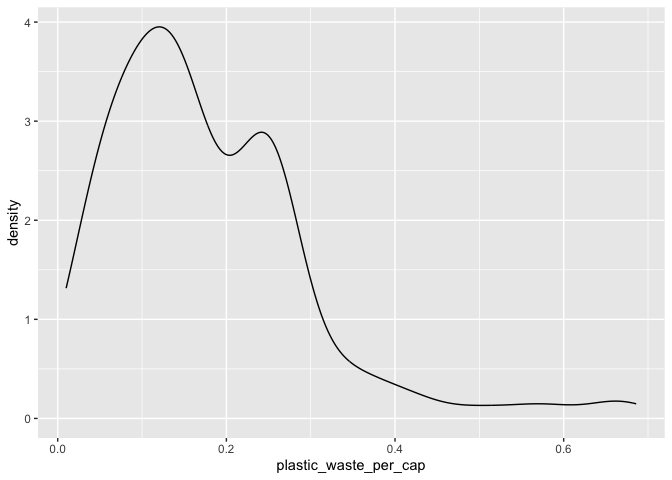
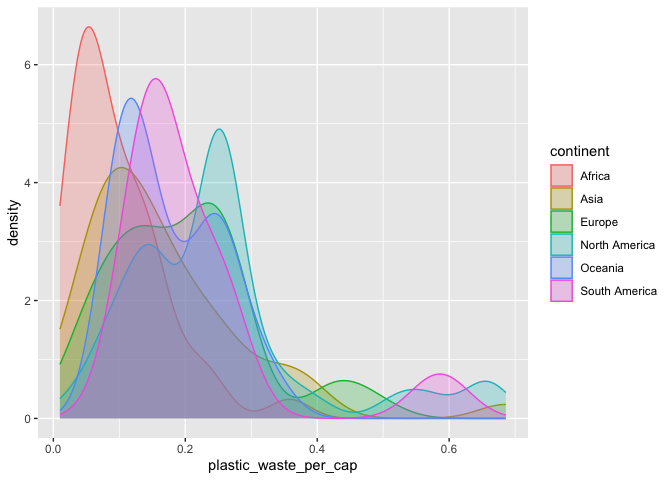
Question 3, 4 et 5

diff --git a/lab-02.md b/lab-02.md
@@ -36,49 +36,85 @@ facet_wrap(~continent)
 ### Exercise 2
 
 ``` r
-ggplot(data=plastic_waste %>% filter(plastic_waste_per_cap < 3.5), aes(x=plastic_waste_per_cap)) +
-  geom_density() 
+ggplot(data=plastic_waste %>% filter(plastic_waste_per_cap < 3.5), aes(x=plastic_waste_per_cap, color=continent,fill=continent)) +
+  geom_density(alpha=0.25)
 ```
 
 ![](lab-02_files/figure-gfm/plastic-waste-density-1.png)<!-- -->
+Décrivez pourquoi le reglage de la couleur (color et fill) et le réglage
+de la transparence (alpha) ne se trouvent pas au même endroit ? L’un
+étant réglé dans aes et l’autre dans geom_density()
 
-Réponse à la question…
+Les réglages color et fill sont dans aes, car ils dépendent des
+variables et modifient leur présentation visuelle. Pour le paramètre
+alpha, ce dernier est placé dans geom_density, puisqu’il agit sur la
+transparence de la couleur sur graphique directement et non sur la
+variable choisie.
 
 ### Exercise 3
 
 Boxplot:
 
 ``` r
-# insert code here
+ggplot(data=plastic_waste %>% filter(plastic_waste_per_cap < 3.5), aes(x=continent, y=plastic_waste_per_cap)) + geom_boxplot()
 ```
+
+![](lab-02_files/figure-gfm/plastic-waste-boxplot-1.png)<!-- -->
 
 Violin plot:
 
 ``` r
-# insert code here
+ggplot(data=plastic_waste %>% filter(plastic_waste_per_cap < 3.5), aes(x=continent, y=plastic_waste_per_cap)) + geom_violin()
 ```
 
-Réponse à la question…
+![](lab-02_files/figure-gfm/plastic-waste-violin-1.png)<!-- -->
+
+Qu’est ce que les violin plots permettent de voir sur les données que
+les boxplot ne permettent pas ?
+
+Les violoins plots permettent de voir une meilleure répartition des
+données tandis que les boxplots permettent seulement de voir des
+résultats comme la médiane, les quartiles et les données extrêmes qui ne
+sortent de la boîte.
 
 ### Exercise 4
 
 ``` r
-# insert code here
+ggplot(data=plastic_waste %>% filter(plastic_waste_per_cap < 3.5), aes(x=mismanaged_plastic_waste_per_cap, y=plastic_waste_per_cap, color=continent)) + geom_point()
 ```
 
-Réponse à la question…
+![](lab-02_files/figure-gfm/plastic-waste-mismanaged-1.png)<!-- -->
+
+On voit la relation entre les déchets qui sont produit et comment ils
+sont gérés. On voit bien que pour ce qui est de l’Afrique, la majorité
+des déchets qui sont produits sont mal gérés, mais qu’à l’inverse, la
+majorité des déchets produits par l’Europe sont bien gérés. On voit
+qu’entre les deux de ces extrémités, l’Amérique du nord a environ la
+moitié de ses déchets produits qui sont mal gérés et que l’autre moitié
+produites est bien gérées. Le graphique montre bien la répartition des
+déchets bien et mal gérés par les différents pays.
 
 ### Exercise 5
 
 ``` r
-# insert code here
+ggplot(data=plastic_waste %>% filter(plastic_waste_per_cap < 3.5), aes(x=plastic_waste_per_cap, y=total_pop,color=continent)) + geom_point()
 ```
+
+    ## Warning: Removed 10 rows containing missing values or values outside the scale range
+    ## (`geom_point()`).
+
+![](lab-02_files/figure-gfm/plastic-waste-population-total-1.png)<!-- -->
 
 ``` r
-# insert code here
+ggplot(data=plastic_waste %>% filter(plastic_waste_per_cap < 3.5), aes(x=plastic_waste_per_cap, y=coastal_pop, color=continent)) + geom_point()
 ```
 
-Réponse à la question…
+![](lab-02_files/figure-gfm/plastic-waste-population-coastal-1.png)<!-- -->
+
+On voit sur le deuxième graphique qu”il y a plus de pays situées sur le
+bord de l’eau où la population a moins tendance à produire beaucoup de
+déchets par habitant que si l’on regarde le graphique contenant
+l’entièreté de la population.
 
 ## Conclusion
 
